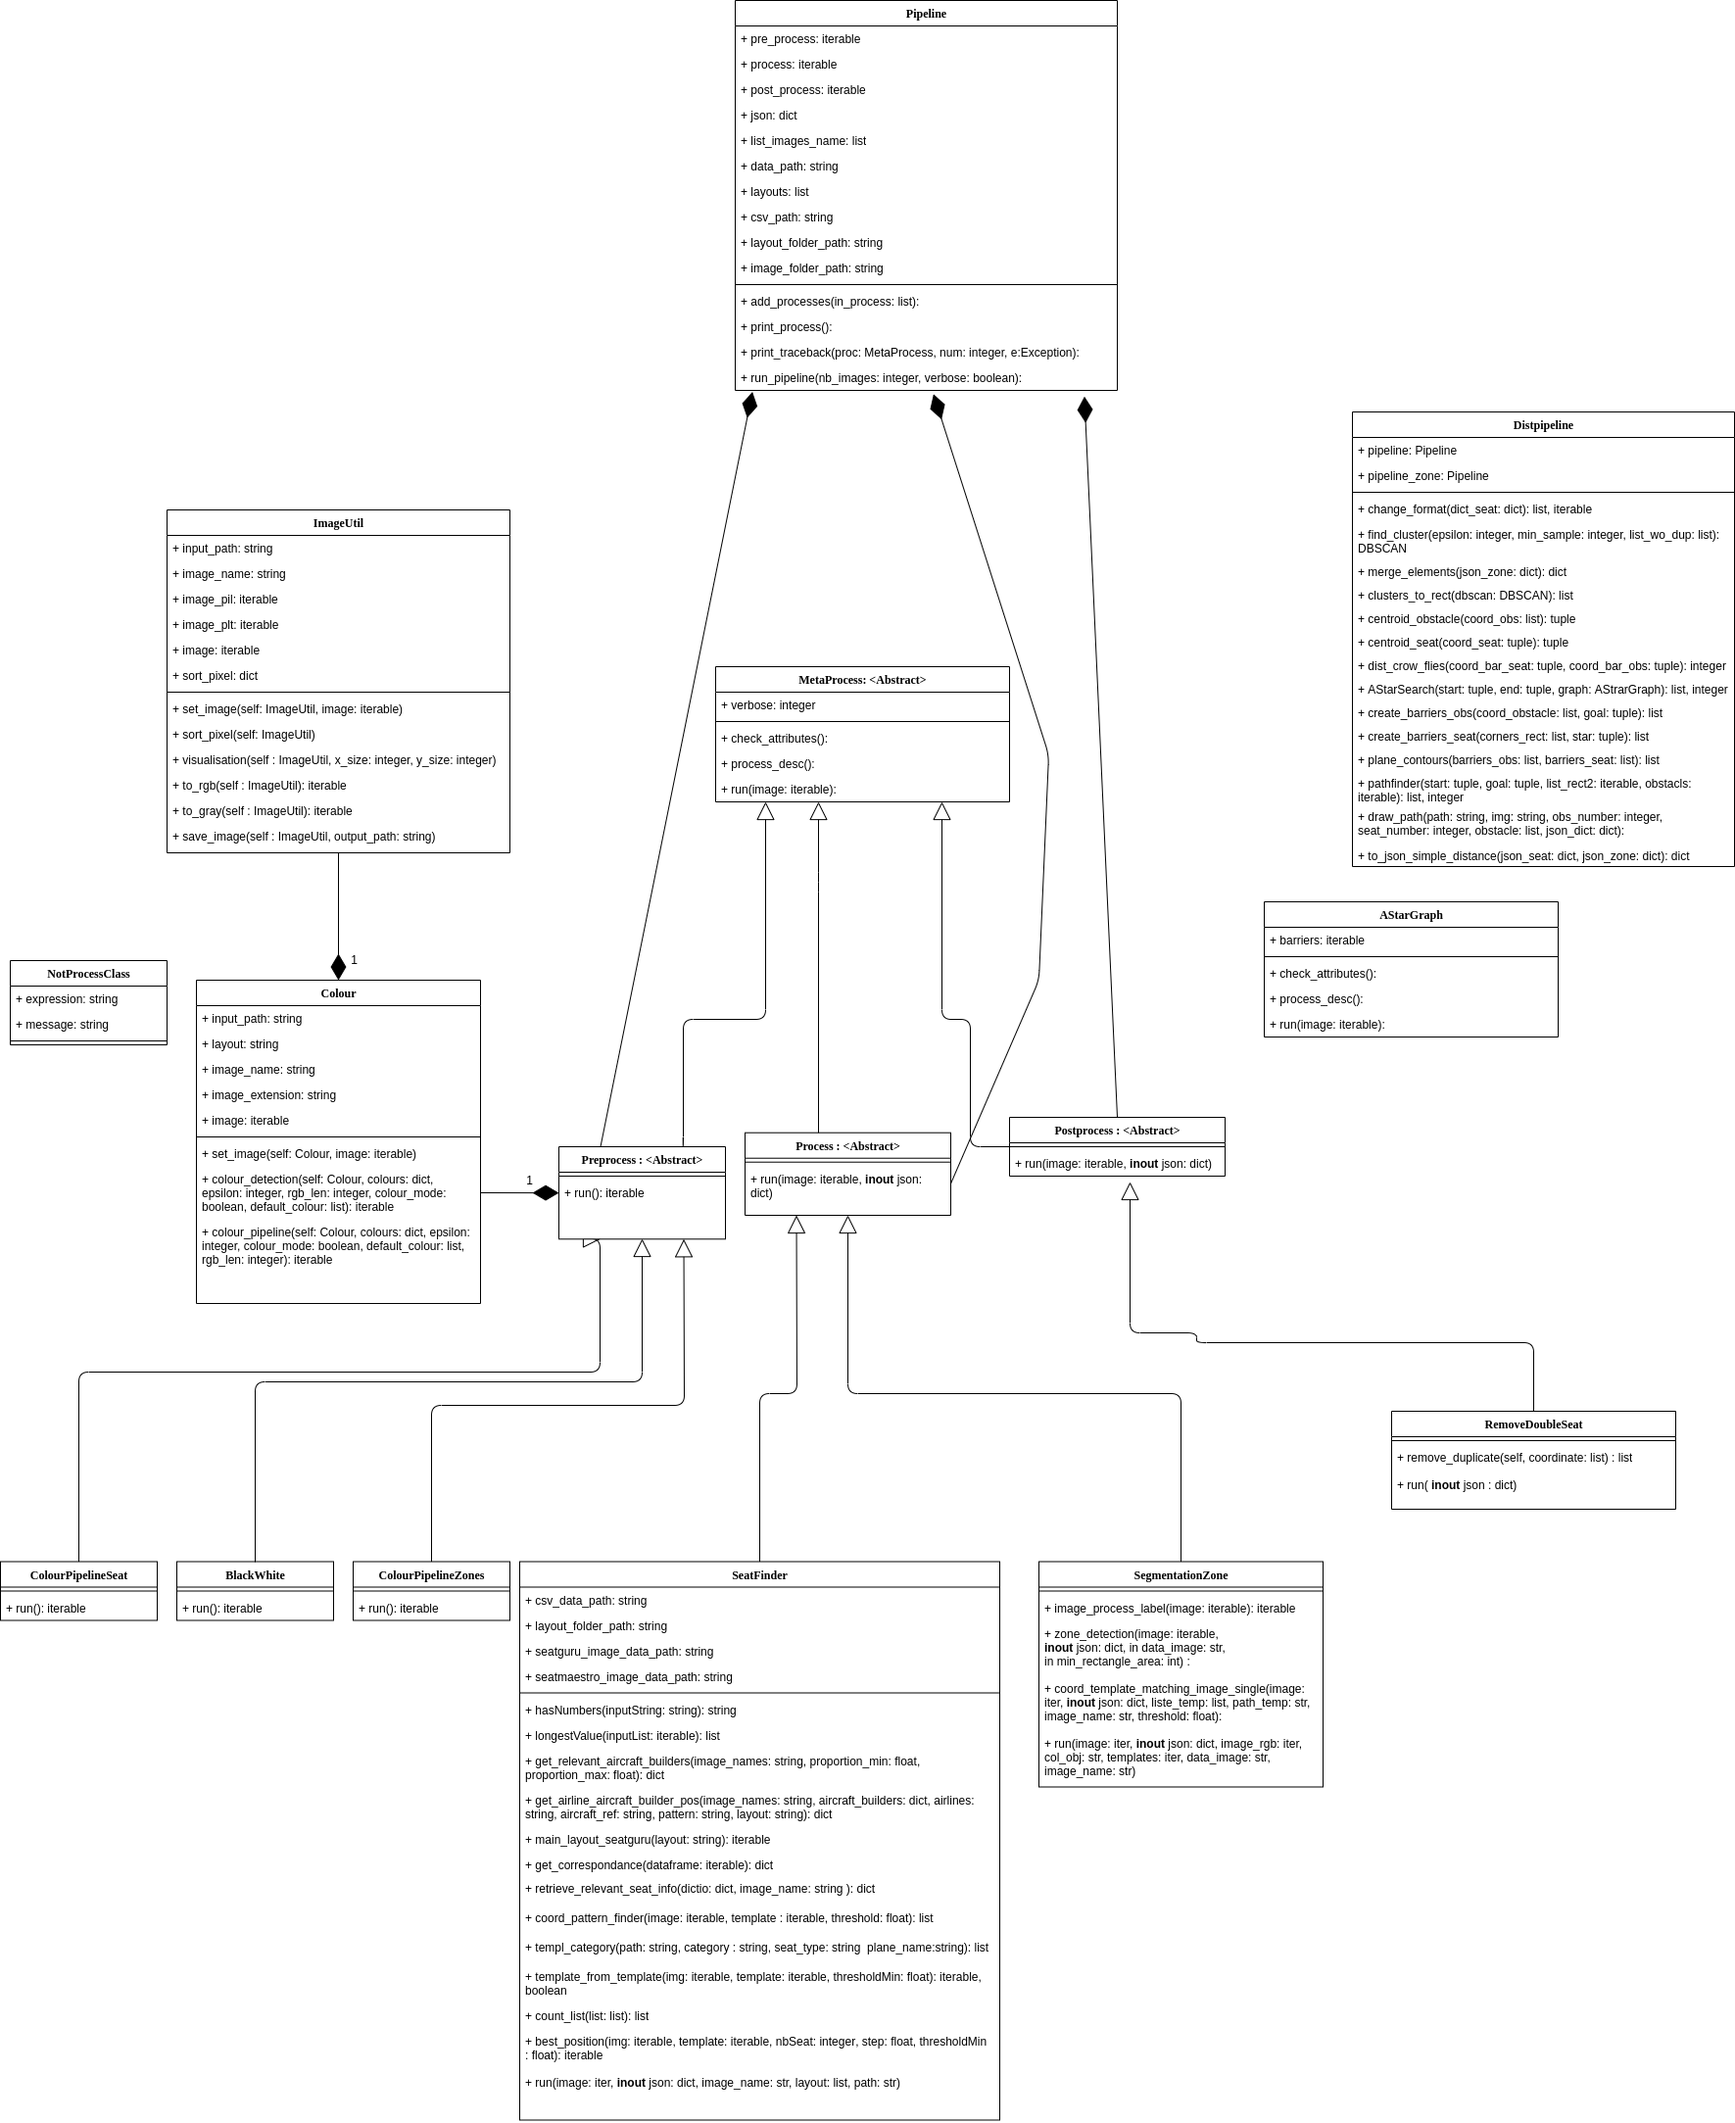
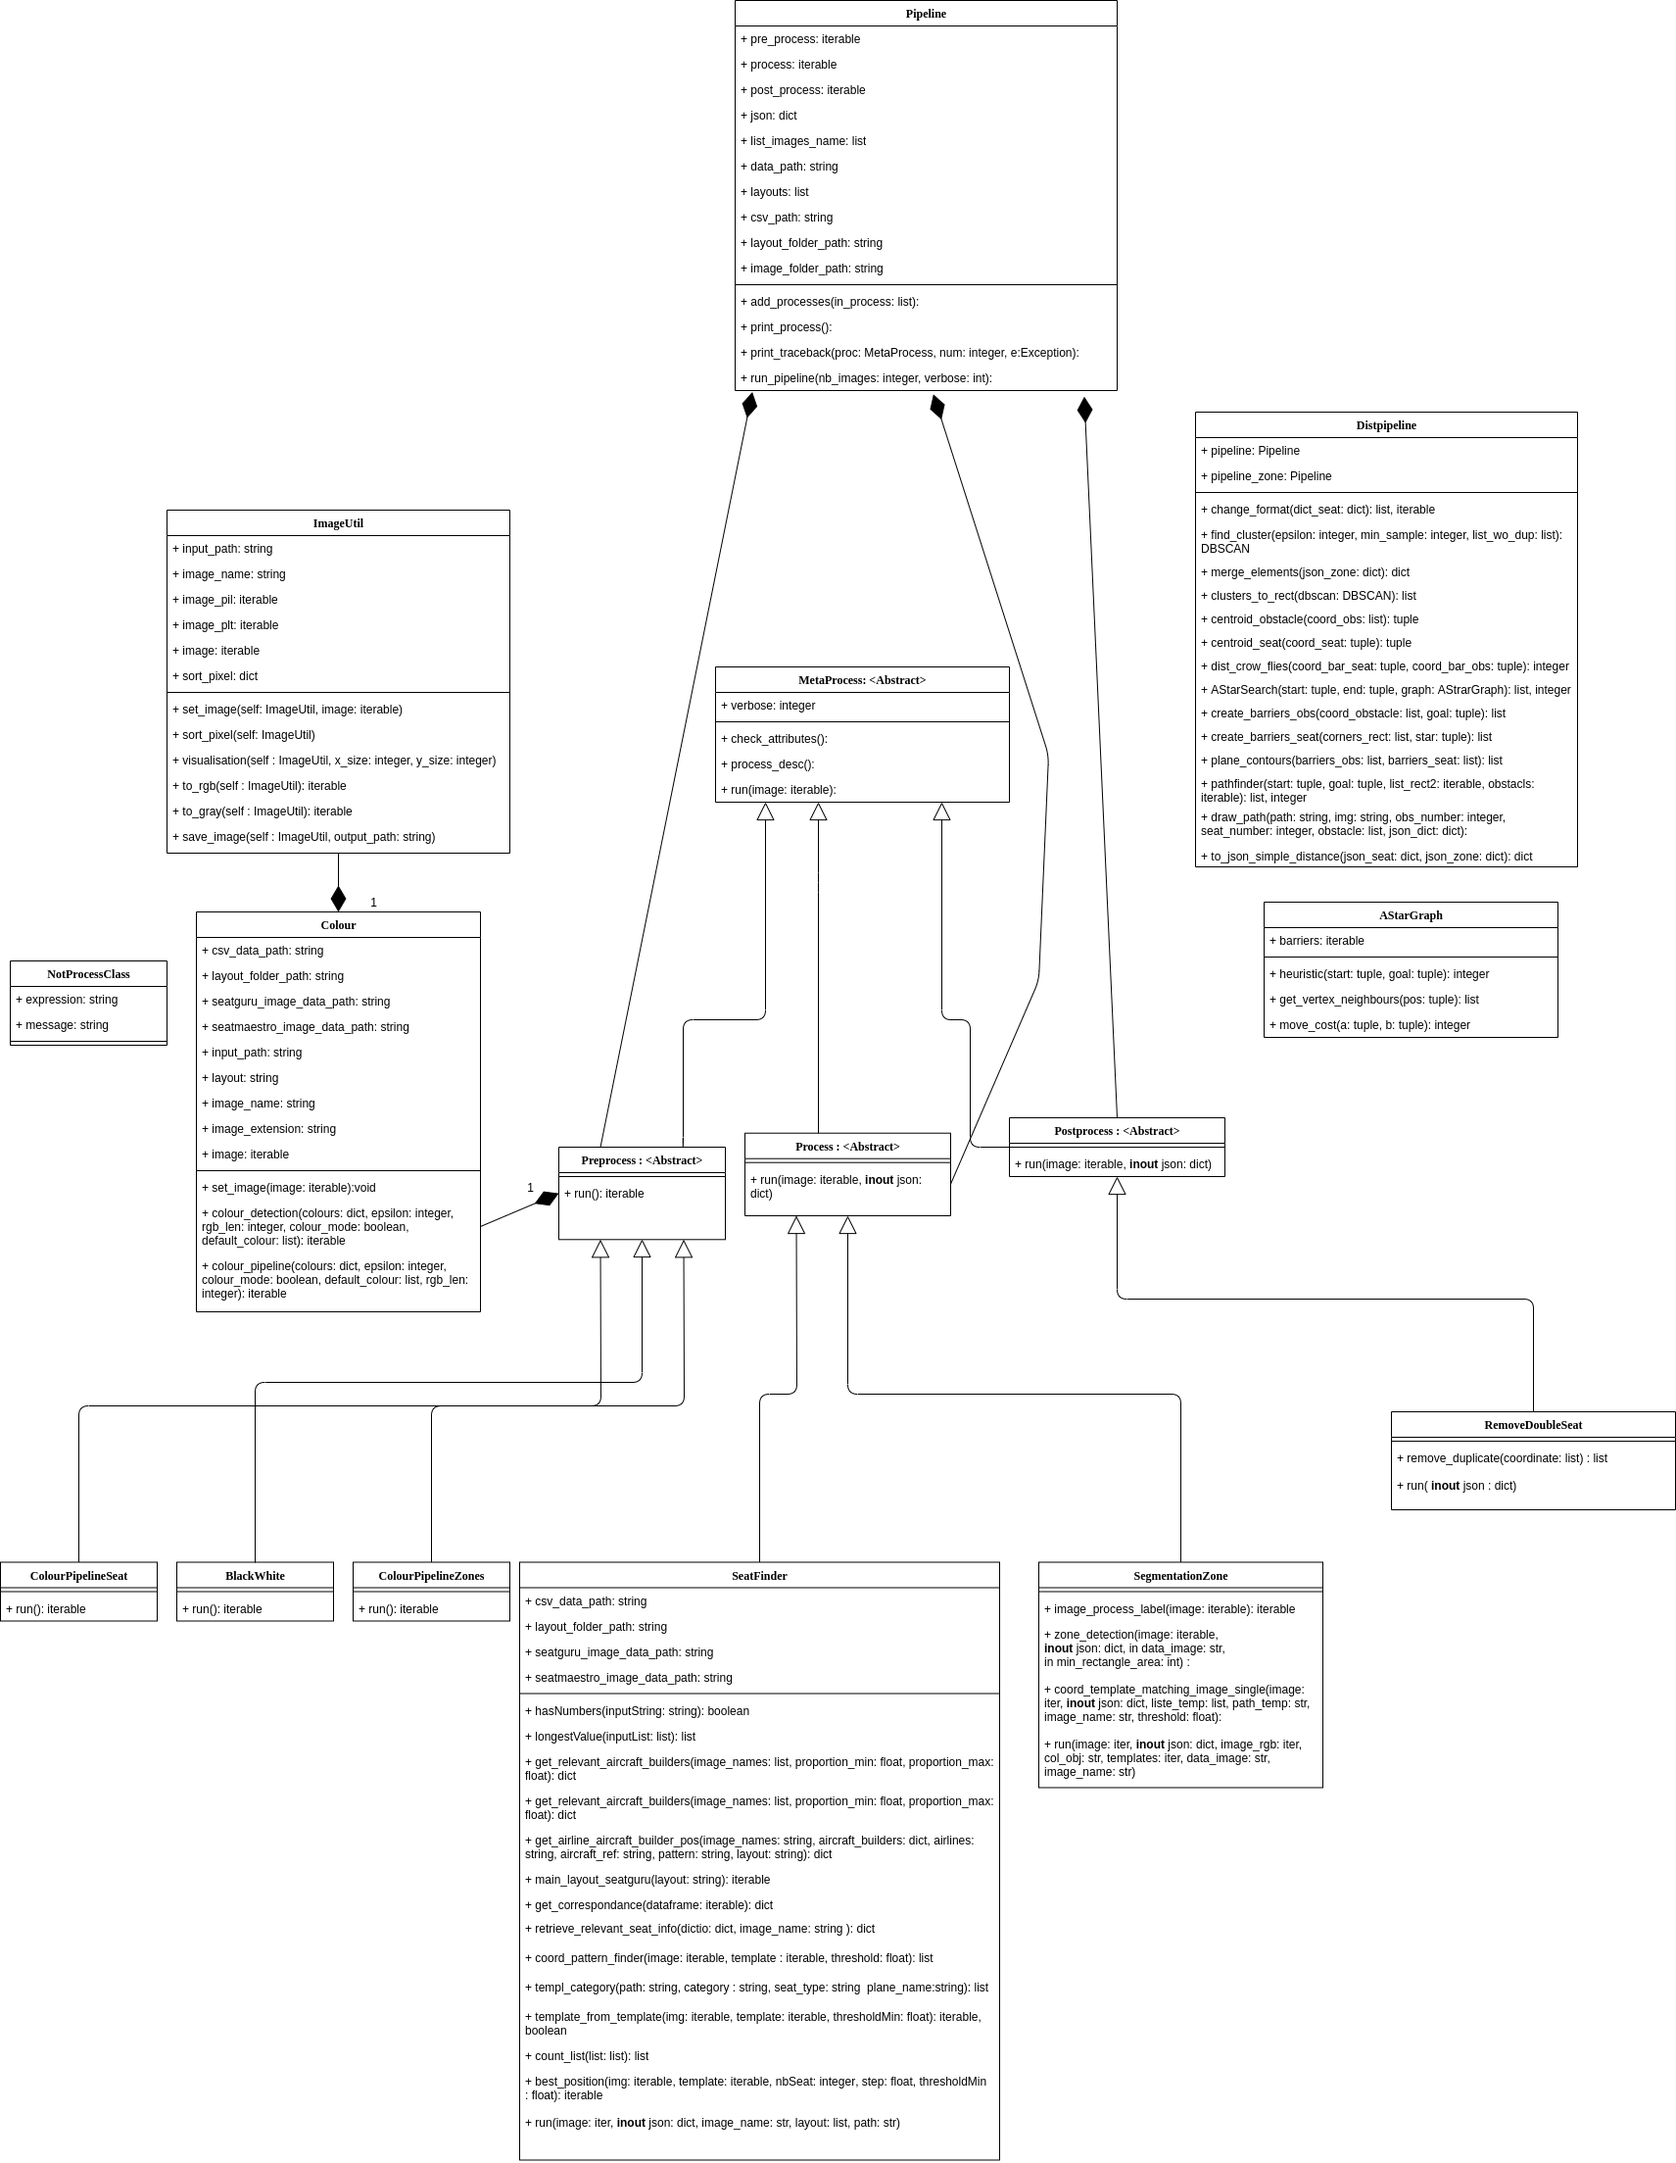
add verbose for printing

diff --git a/layout_processing/pipeline.py b/layout_processing/pipeline.py
@@ -21,7 +21,7 @@ class Pipeline:
     """
 
     def __init__(self, data_path, list_images_name: Iterable[str] = None,
-                 layouts: Iterable[str]=
+                 layouts: Iterable[str] =
                  ['LAYOUT SEATGURU', 'LAYOUT SEATMAESTRO']) -> None:
         """
         Documentation
@@ -119,7 +119,7 @@ class Pipeline:
         print(exc_type, fname, exc_tb.tb_lineno)
         print(e)
 
-    def run_pipeline(self, nb_images: int, verbose: bool=True, **kwargs) -> None:
+    def run_pipeline(self, nb_images: int, verbose: int = 1, **kwargs) -> None:
         """
         Documentation
         Run the pipeline. Compute, in order :
@@ -139,13 +139,22 @@ class Pipeline:
             **kwargs : allow argument passing by this dictionnary. It
             is used to give parameters to process in the run. Don't 
             forget to name parameter the same as in the process definition.
+            :param nb_images: int : number of images to process, if nb_images
+            < 0, the whole dataset is processed.
+            :param verbose: int :
+             if verbose = 0 : nothing is plot
+             if verbose = 1 : images are plot
+             if verbose > 2 : json are also plot (Warning : it can takes
+             a lot of place in standard output)
         """
-        if verbose is True :
+        if verbose is True:
             self.print_process()
         if self.list_images_name is None:
-            self.list_images_name = os.listdir(self.image_folder_path)[
-                                    :nb_images]
-
+            if nb_images > 0:
+                self.list_images_name = os.listdir(self.image_folder_path)[
+                                        :nb_images]
+            else:
+                self.list_images_name = os.listdir(self.image_folder_path)
         for image_name in self.list_images_name:
             # Create a Colour object containing the image to process.
             col_obj = Colour(self.layout_folder_path, self.layouts[0],
@@ -164,8 +173,8 @@ class Pipeline:
                     print("Doing : " + pre_pro.process_desc)
                     image = pre_pro.run(**kwargs)
                     col_obj.set_image(image)
-                    if verbose is True:
-                        plt.figure(figsize=(40, 40))
+                    if verbose > 1:
+                        plt.figure(figsize=(4, 4))
                         plt.imshow(col_obj.image)
                         plt.show()
                 except Exception as e:
@@ -180,7 +189,7 @@ class Pipeline:
                         pro.run(image, self.json, image_rgb=col_obj.image,
                                 data_image=self.image_folder_path + image_name,
                                 image_name=image_name, **kwargs)
-                        if verbose is True:
+                        if verbose > 2:
                             print(self.json)
                     else:
                         raise ValueError("Image = None")
